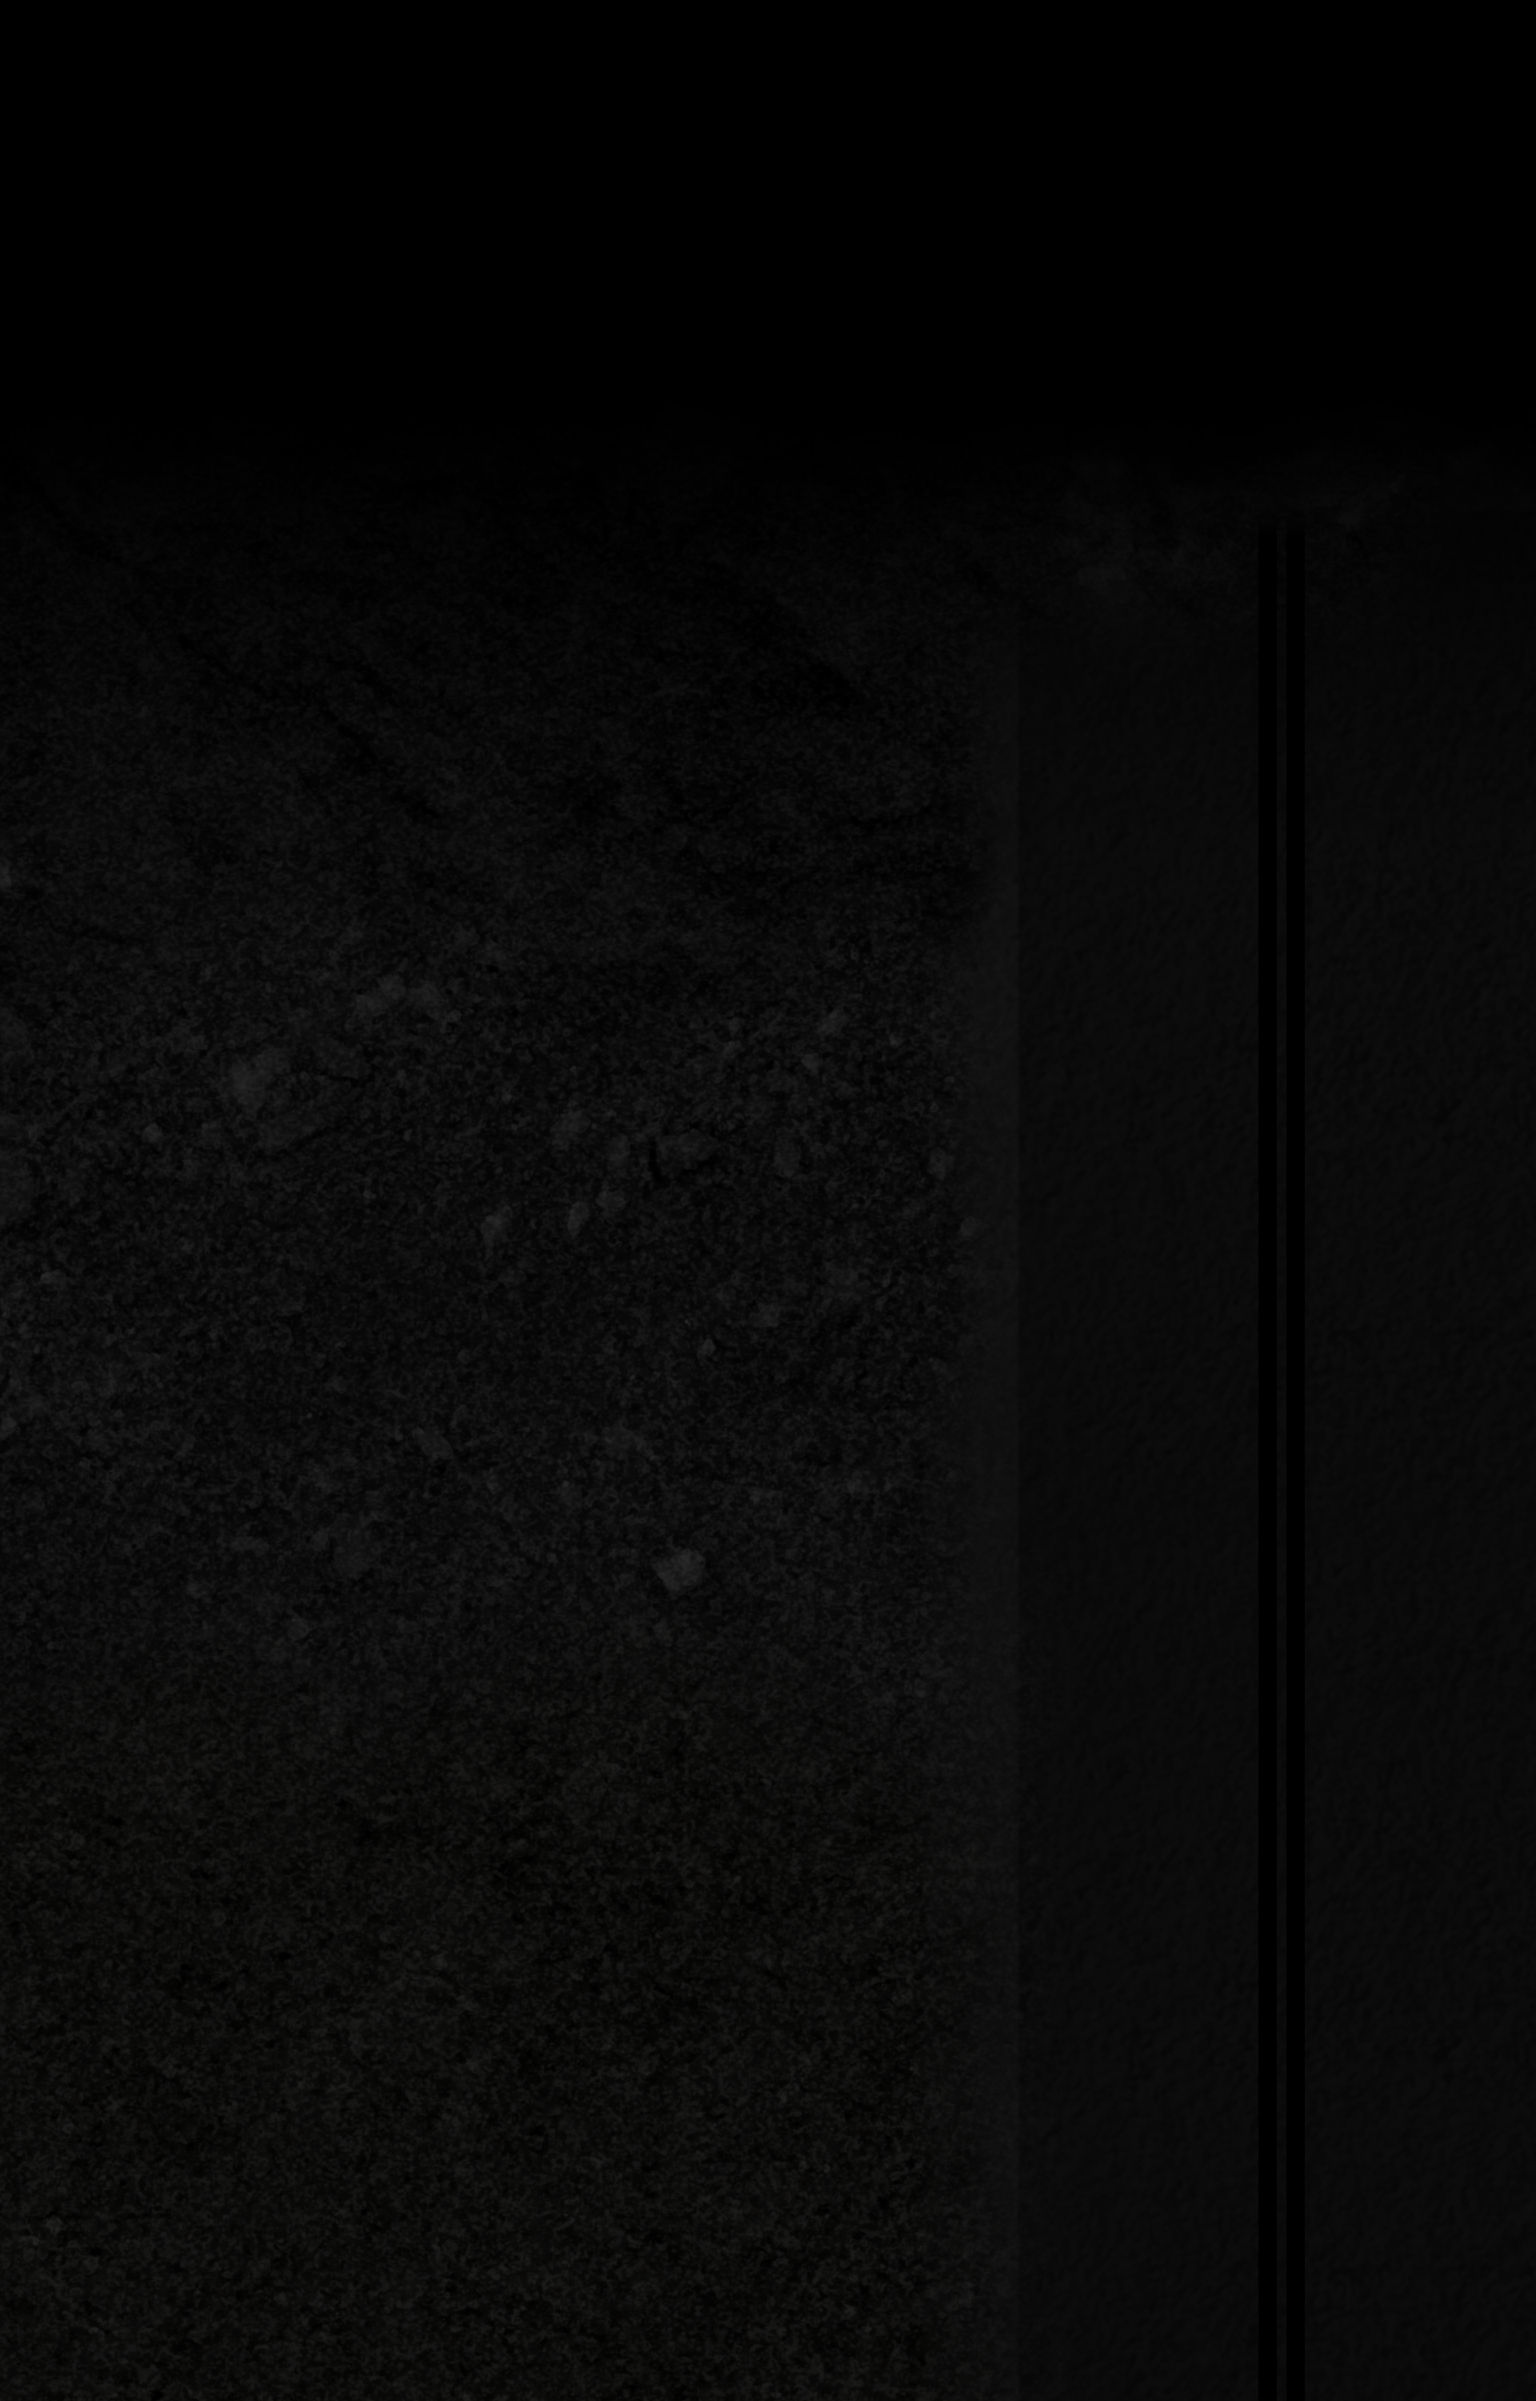
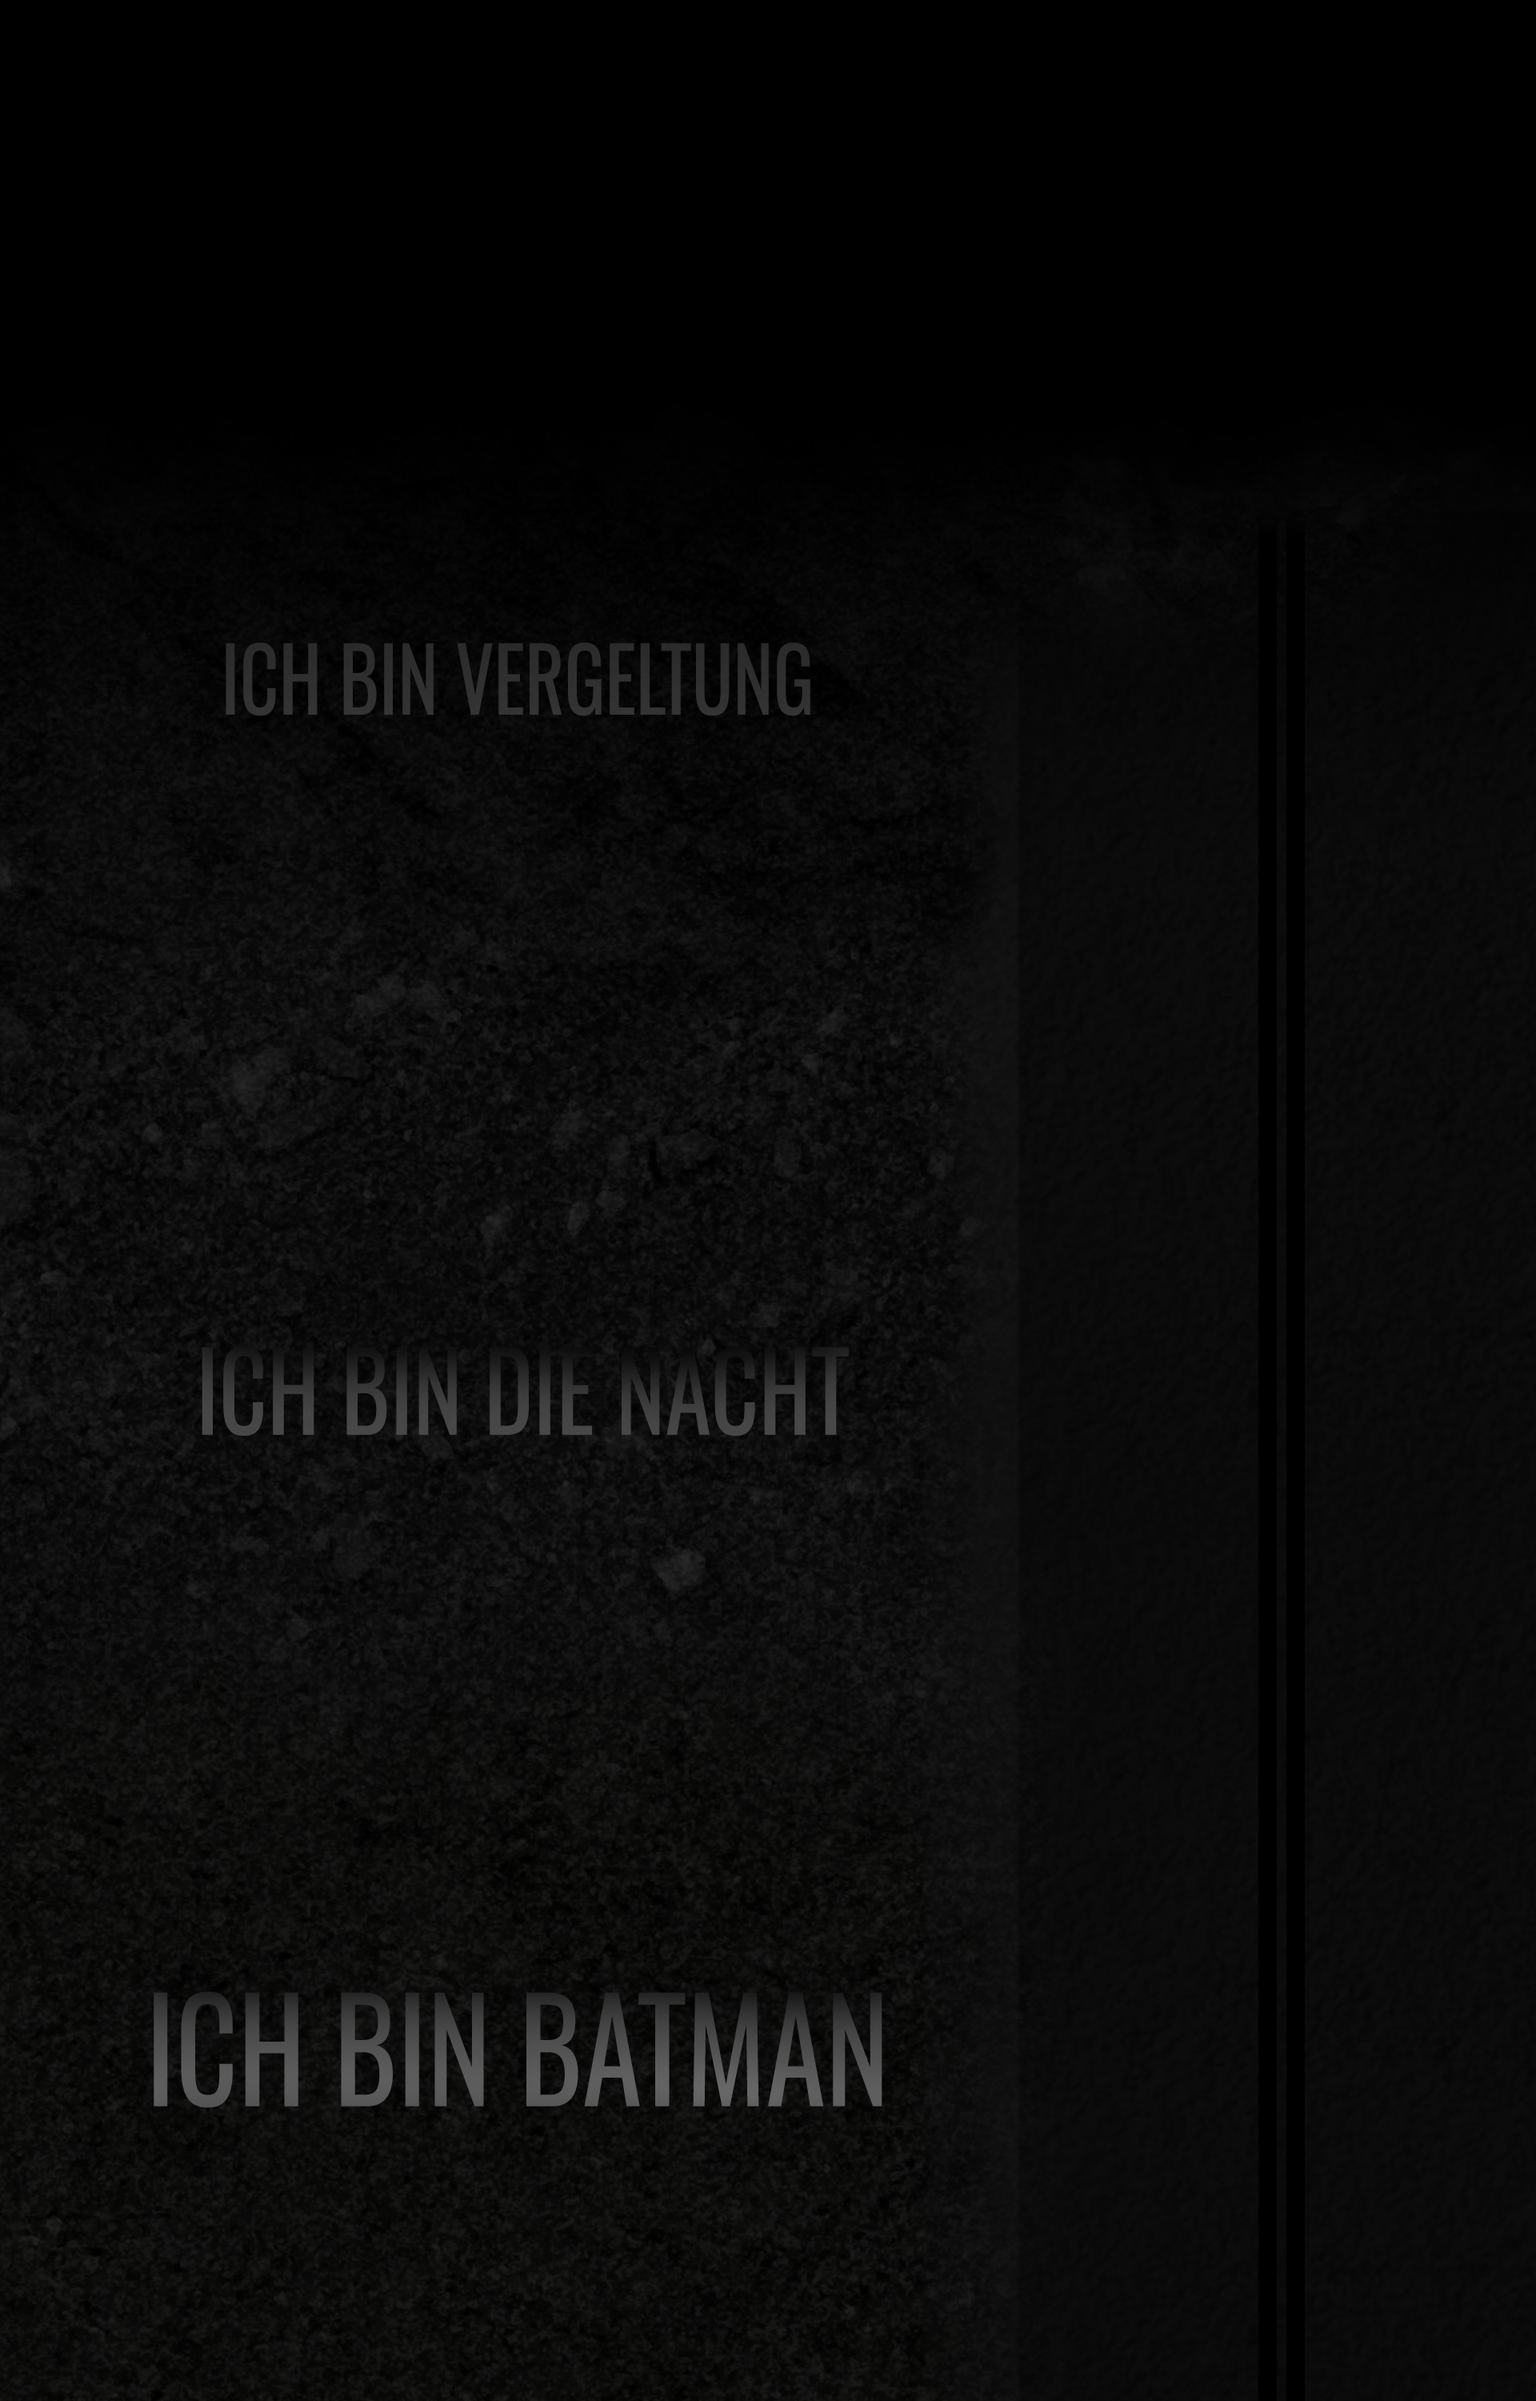
Texte + neuer Button

diff --git a/main.js b/main.js
@@ -107,23 +107,26 @@ gsap.to(".wayneTower img:last-child", { // Hintergrund (BackgroundTower.png)
 
 gsap.registerPlugin(ScrollTrigger);
 
+// Horizontal scroll effect for batcave
 gsap.to(".background", {
   x: "-67%", // Move the background fully horizontally
   ease: "power1.inOut", // Smooth easing
   scrollTrigger: {
-    trigger: ".scroll-section",
-    start: "top top", // Start when the section hits the top
-    end: "bottom center", // End when the section leaves the center
-    scrub: 5, // Synchronize with scroll
-    pin: true, // Pin the section during the scroll
-    pinSpacing: false, // Prevent extra spacing after the pin
-    onComplete: () => {
-      // Make the button visible after the animation completes
-      gsap.to(".button-container", {
-        opacity: 100,
-        visibility: "visible", // Make the button visible
-        duration: 1, // Smooth transition
-      });
+    trigger: ".scroll-section",  // Start based on the scroll section
+    start: "top top",            // Start when the section hits the top
+    end: "bottom center",        // End scroll halfway through
+    scrub: 5,                    // Synchronize with scroll
+    pin: true,                   // Pin the section during the scroll
+    pinSpacing: false,           // Prevent extra spacing
+    onUpdate: (self) => {
+      // Show the button when batcave is halfway through its movement
+      if (self.progress >= 0.5) {
+        gsap.to(".button-container", {
+          opacity: 1,
+          visibility: "visible",
+          duration: 1,           // Smooth fade-in transition
+        });
+      }
     }
   }
 });
@@ -132,6 +135,7 @@ gsap.to(".background", {
 document.getElementById("nextPageButton").addEventListener("click", function() {
     window.location.href = "videoPage.html";  // Change this to your desired page URL
 });
+
 
 var ml4 = {};
 ml4.opacityIn = [0,1];

diff --git a/styles.css b/styles.css
@@ -171,7 +171,7 @@ div.scroll-container img {
   padding: 10px;
 }
 
-.button-container {
+/* .button-container {
   position: fixed;         
   bottom: 30px;            
   left: 50%;        
@@ -196,7 +196,35 @@ div.scroll-container img {
 #nextPageButton:hover {
   color: rgb(138, 138, 138);
   background-color: rgb(99, 0, 0);  
+} */
+
+.button-container {
+  position: fixed;         /* Fix the button at the bottom of the viewport */
+  bottom: 30px;            /* Keep some space from the bottom */
+  left: 50%;               /* Center horizontally */
+  transform: translateX(-50%);  /* Perfect centering */
+  opacity: 0;              /* Initially hidden */
+  visibility: hidden;      /* Initially hidden */
+  transition: opacity 1s ease-in-out;
+  z-index: 1000;           /* Ensure it appears above other elements */
 }
+
+#nextPageButton {
+  font-size: 1.5rem;
+  padding: 10px 20px;
+  color: rgb(138, 138, 138);
+  background-color: rgb(99, 0, 0);
+  border: none;
+  border-radius: 5px;
+  cursor: pointer;
+  transition: background-color 0.3s ease;
+}
+
+#nextPageButton:hover {
+  background-color: rgb(143, 0, 0);   /* Red button */
+  color: rgb(203, 203, 203);
+}
+
 
 
 /* ----------EFFECTSPRESETS----------- */

diff --git a/index.html b/index.html
@@ -49,7 +49,7 @@
             </div>
             
             <div class="button-container">
-                <button id="nextPageButton" class="btn btn-primary">Click me, when finished</button>
+                <button id="nextPageButton" class="btn btn-primary">Click me to enter</button>
             </div>
             
         </div>
